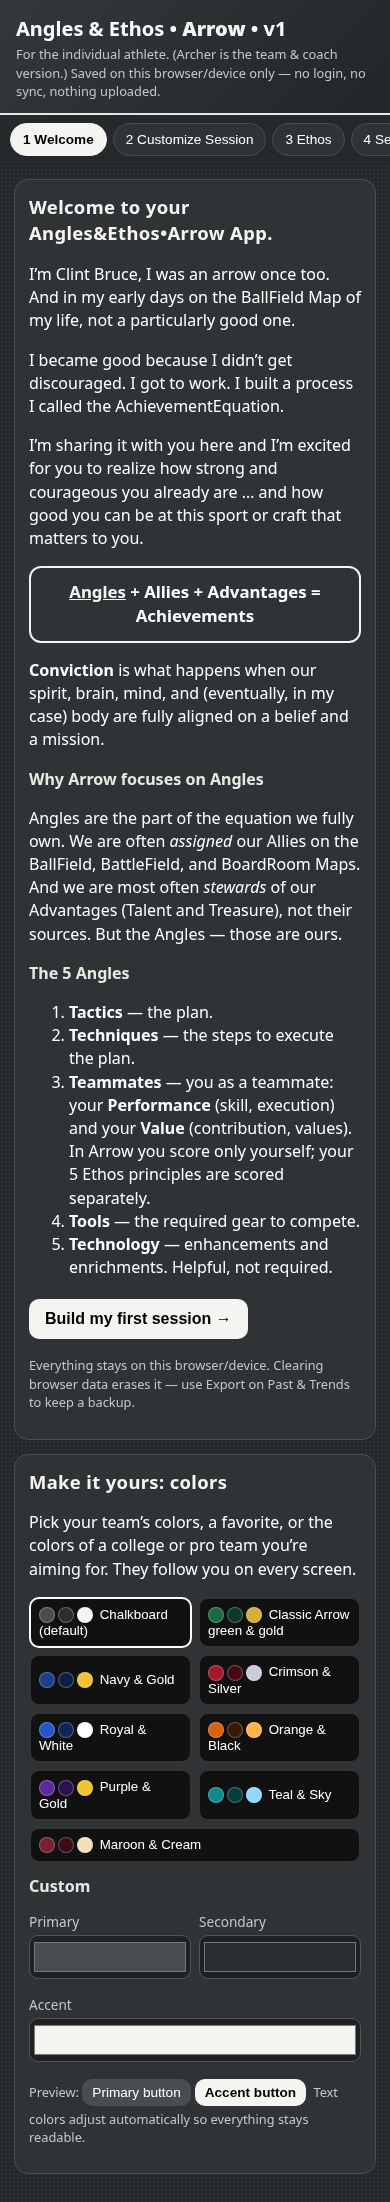
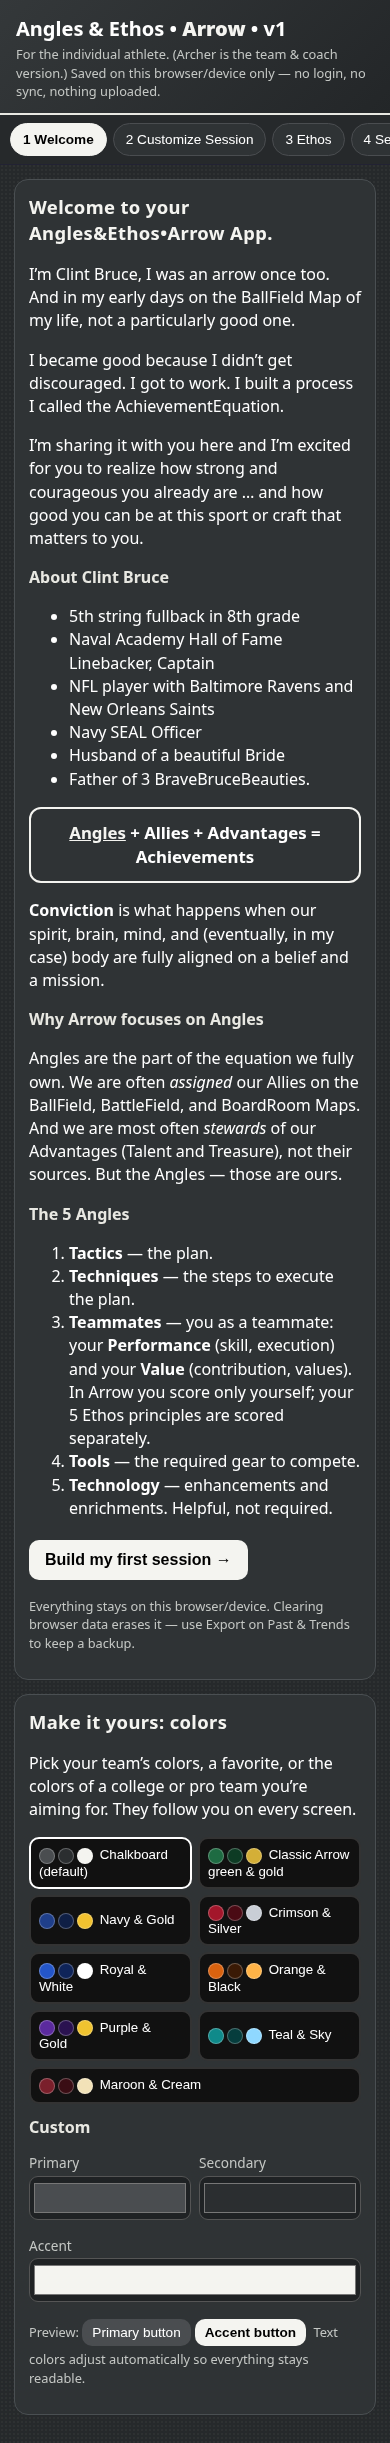
Add About Clint Bruce bio

Changed region(s): [[0.0, 0.0, 1.0, 0.9882], [0.8615, 0.6485, 0.8923, 0.6794]]

diff --git a/index.html b/index.html
@@ -82,6 +82,8 @@ function vWelcome(){return `<div class="card"><h2>Welcome to your Angles&amp;Eth
 <p>I’m Clint Bruce, I was an arrow once too. And in my early days on the BallField Map of my life, not a particularly good one.</p>
 <p>I became good because I didn’t get discouraged. I got to work. I built a process I called the AchievementEquation.</p>
 <p>I’m sharing it with you here and I’m excited for you to realize how strong and courageous you already are … and how good you can be at this sport or craft that matters to you.</p>
+<div id="bio"><h3>About Clint Bruce</h3><ul>
+<li>5th string fullback in 8th grade</li><li>Naval Academy Hall of Fame Linebacker, Captain</li><li>NFL player with Baltimore Ravens and New Orleans Saints</li><li>Navy SEAL Officer</li><li>Husband of a beautiful Bride</li><li>Father of 3 BraveBruceBeauties.</li></ul></div>
 <div class="eq"><span class="own">Angles</span> + Allies + Advantages = Achievements</div>
 <p><b>Conviction</b> is what happens when our spirit, brain, mind, and (eventually, in my case) body are fully aligned on a belief and a mission.</p>
 <h3>Why Arrow focuses on Angles</h3>

diff --git a/test.py b/test.py
@@ -87,3 +87,13 @@ with sync_playwright() as p:
     pg.evaluate("()=>{const d=JSON.parse(localStorage.ae_arrow_v1);delete d.theme;localStorage.ae_arrow_v1=JSON.stringify(d)}"); pg.reload()
     assert pg.evaluate("document.documentElement.style.getPropertyValue('--g')")=='#1e6b42'
     print('chalk ok',e); pg.close()
+B=['5th string fullback in 8th grade','Naval Academy Hall of Fame Linebacker, Captain','NFL player with Baltimore Ravens and New Orleans Saints','Navy SEAL Officer','Husband of a beautiful Bride','Father of 3 BraveBruceBeauties.']
+with sync_playwright() as p:
+  b=p.chromium.launch(executable_path='/usr/bin/google-chrome',args=['--no-sandbox'])
+  for vp in [{'width':390,'height':844},{'width':1280,'height':900}]:
+    pg=b.new_page(viewport=vp); e=[]; pg.on('pageerror',lambda x:e.append(str(x)))
+    pg.goto(url); pg.evaluate('localStorage.clear()'); pg.reload()
+    assert pg.locator('#bio li').all_inner_texts()==B
+    assert pg.evaluate('document.documentElement.scrollWidth')<=vp['width']
+    if vp['width']==390: pg.screenshot(path='shots/arrow-welcome-bio.png',clip={'x':0,'y':0,'width':390,'height':760})
+    print('bio ok',e); pg.close()
